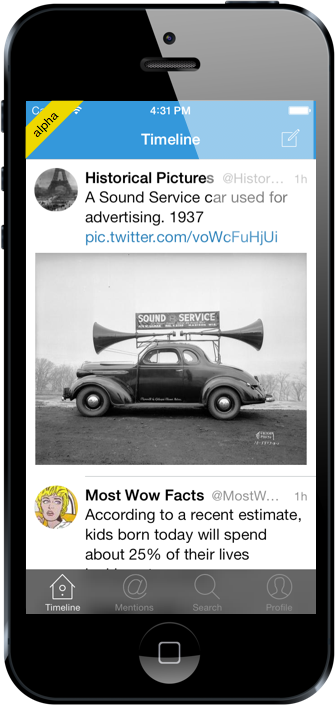
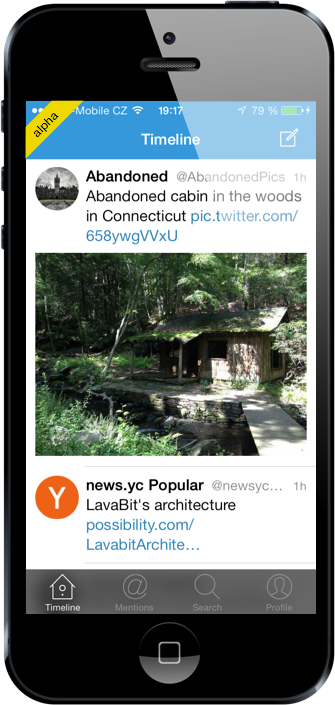
fix design bugs, update screenshot, add invitation to try the alpha version

diff --git a/index.html b/index.html
@@ -58,6 +58,9 @@
 			<p align="center">
 				<a href="#" data-reveal-id="subscribeModal">let me know</a> <span class="linkColor"> | </span> <a href="https://twitter.com/ptrpavlik">author</a>
 			</p>
+			<p align="center">
+				<a href="mailto:petrpavlik@me.com?subject=Tweetilus Alpha&body=I'd like to try the alpha version of Tweetilus.">Want to try the alpha version?</a>
+			</p>
 		</div>
 		<div class="large-5 large-offset-1 pull-6 columns">
 			<img src="img/ipHone.png" style="content: -webkit-image-set(url(img/iPhone.png) 1x, url(img/iPhone@2x.png) 2x);" width="355" height="705" alt="screenshot"/>
